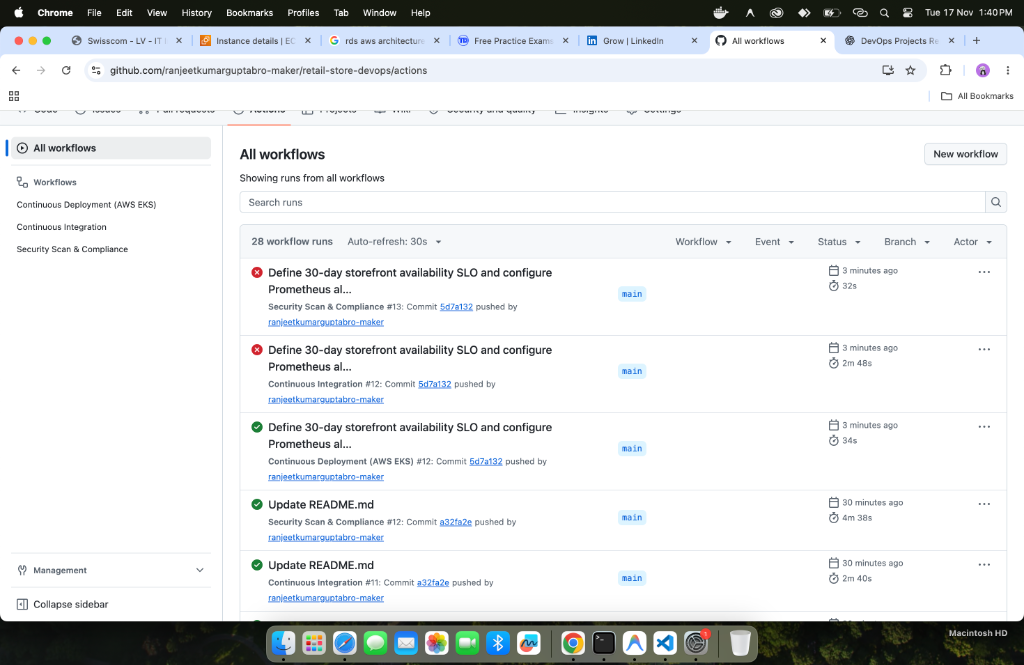
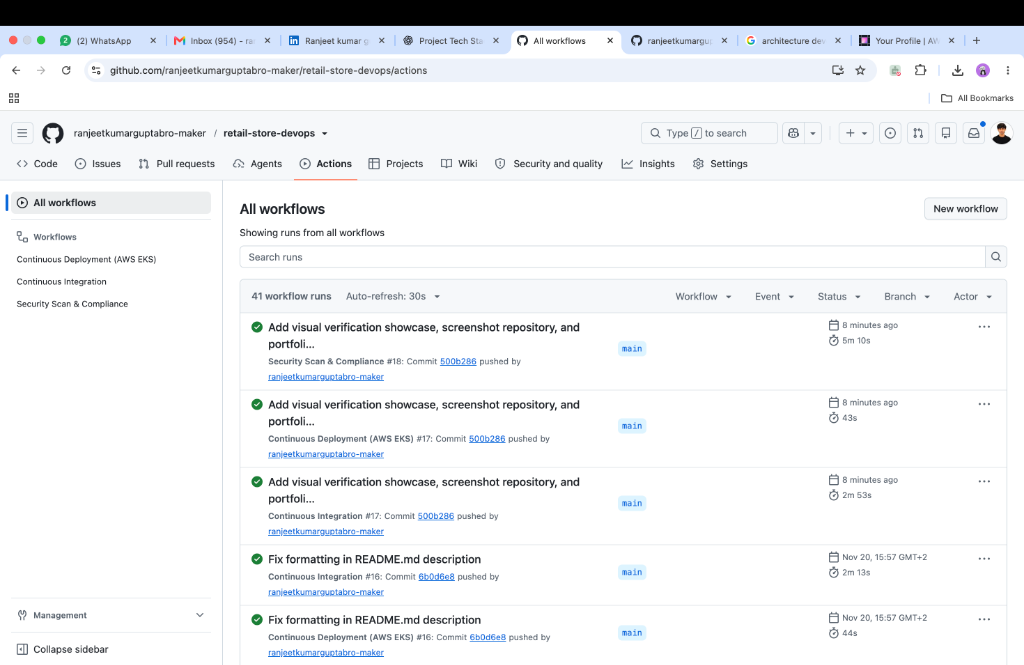
Update GitHub Actions verification screenshot and clean high-level architecture section

diff --git a/README.md b/README.md
@@ -50,57 +50,6 @@
   <p><i>Figure: End-to-End Retail Store DevOps Architecture — Developer Workflow, Terraform Infrastructure as Code, GitHub Actions CI/CD (Build, Unit Test, Trivy CVE Scan, CycloneDX SBOM, ECR Push, Helm Deploy), Amazon EKS Microservices Mesh, S3 State Backup, and Prometheus/Grafana SRE Observability.</i></p>
 </div>
 
-<br/>
-
-```mermaid
-flowchart TD
-    subgraph SCM["1. Source Control & Developer Experience"]
-        DEV["Developer Workstation"] -->|"git push"| GH["GitHub Repository (main)"]
-    end
-
-    subgraph CICD["2. Enterprise CI/CD Pipeline (GitHub Actions)"]
-        GH --> CI["CI: Polyglot Builds & Unit Tests"]
-        CI --> TF_VAL["Terraform Format & Validate"]
-        CI --> PY_TEST["45 Automation Tests (0.18s)"]
-        TF_VAL --> SEC["Security: Secret Scanning & IaC Audit"]
-        SEC --> SBOM["CycloneDX SBOM Artifact Upload"]
-        SEC --> GATE["Pre-Deploy Trivy Container CVE Gate"]
-        GATE --> PROD_GATE{"Production Approval Gate"}
-        PROD_GATE -->|"Approved"| OIDC["AWS OIDC Federation (Keyless Auth)"]
-    end
-
-    subgraph AWS_INFRA["3. AWS Cloud Infrastructure (Terraform IaC)"]
-        OIDC --> TF_APPLY["Terraform Multi-AZ Architecture"]
-        TF_APPLY --> VPC["VPC (3 Public & 3 Private Subnets)"]
-        TF_APPLY --> ECR["Amazon ECR (KMS Encrypted & Lifecycle Policies)"]
-        TF_APPLY --> EKS["Amazon EKS 1.29 Managed Cluster"]
-    end
-
-    subgraph K8S_MESH["4. Kubernetes Orchestration Mesh (retail-store Namespace)"]
-        EKS --> NET_POL["Zero-Trust NetworkPolicies (Default Deny-All)"]
-        EKS --> QUOTA["Namespace ResourceQuotas & LimitRanges"]
-        NET_POL --> UI["Storefront UI (Java 21 Spring Boot)"]
-        UI -->|"Port 8080"| CATALOG["Catalog Service (Go Gin + MySQL)"]
-        UI -->|"Port 8080"| CART["Cart Service (Java 21 + DynamoDB/Redis)"]
-        UI -->|"Port 8080"| CHECKOUT["Checkout Service (Node.js NestJS)"]
-        CHECKOUT -->|"Port 8080"| ORDERS["Orders Service (Java 21 + RabbitMQ)"]
-        
-        HPA["HPA v2 (CPU 70% / RAM 80%)"] -.-> UI & CATALOG & CART & CHECKOUT & ORDERS
-        PDB["PDB (minAvailable: 1)"] -.-> UI & CATALOG & CART & CHECKOUT & ORDERS
-    end
-
-    subgraph SRE_OBS["5. Observability & Autonomous SRE Operations"]
-        PROM["Prometheus Server & Alertmanager"] -->|"Scrape Metrics"| UI & CATALOG & CART & CHECKOUT & ORDERS
-        PROM -->|"99.0% SLO Tracking"| SLO_ENGINE["30-Day Rolling Error Budget"]
-        SLO_ENGINE -->|"Alert on Burn Rate"| GRAFANA["Grafana Executive Dashboards"]
-        
-        SRE_DAEMON["SRE Ops Daemon (Port 9102)"] -->|"Continuous Health Polling"| K8S_MESH
-        SRE_DAEMON -->|"Prometheus Exporter"| PROM
-        SRE_DAEMON -->|"7-Stage Self-Healing"| LIFECYCLE["Incident Lifecycle Engine"]
-        LIFECYCLE -->|"Safe Rollback"| EKS
-    end
-```
-
 ---
 
 ## 📸 Visual Showcase & Cloud Platform Verification
@@ -154,10 +103,10 @@ flowchart TD
 
 ---
 
-### 6. Enterprise CI/CD Pipeline & Supply Chain Security
+### 6. Enterprise CI/CD Pipeline & GitHub Actions Verification
 <div align="center">
-  <img src="docs/images/cicd/github-actions-pipeline.png" alt="GitHub Actions Pipeline" width="90%" style="border-radius: 8px; border: 1px solid #334155;" />
-  <p><i>Figure 6: GitHub Actions CI/CD Pipeline executing multi-service build verification, Trivy secret/vulnerability scans, CycloneDX SBOM artifact generation, and Amazon EKS deployment.</i></p>
+  <img src="docs/images/cicd/github-actions-pipeline.png" alt="GitHub Actions Pipeline Runs" width="100%" style="border-radius: 8px; border: 1px solid #334155;" />
+  <p><i>Figure 6: Live GitHub Actions CI/CD Pipeline verification on branch main — Security Scan &amp; Compliance, Continuous Deployment (AWS EKS), and Continuous Integration workflows running with 100% green status.</i></p>
 </div>
 
 ---
